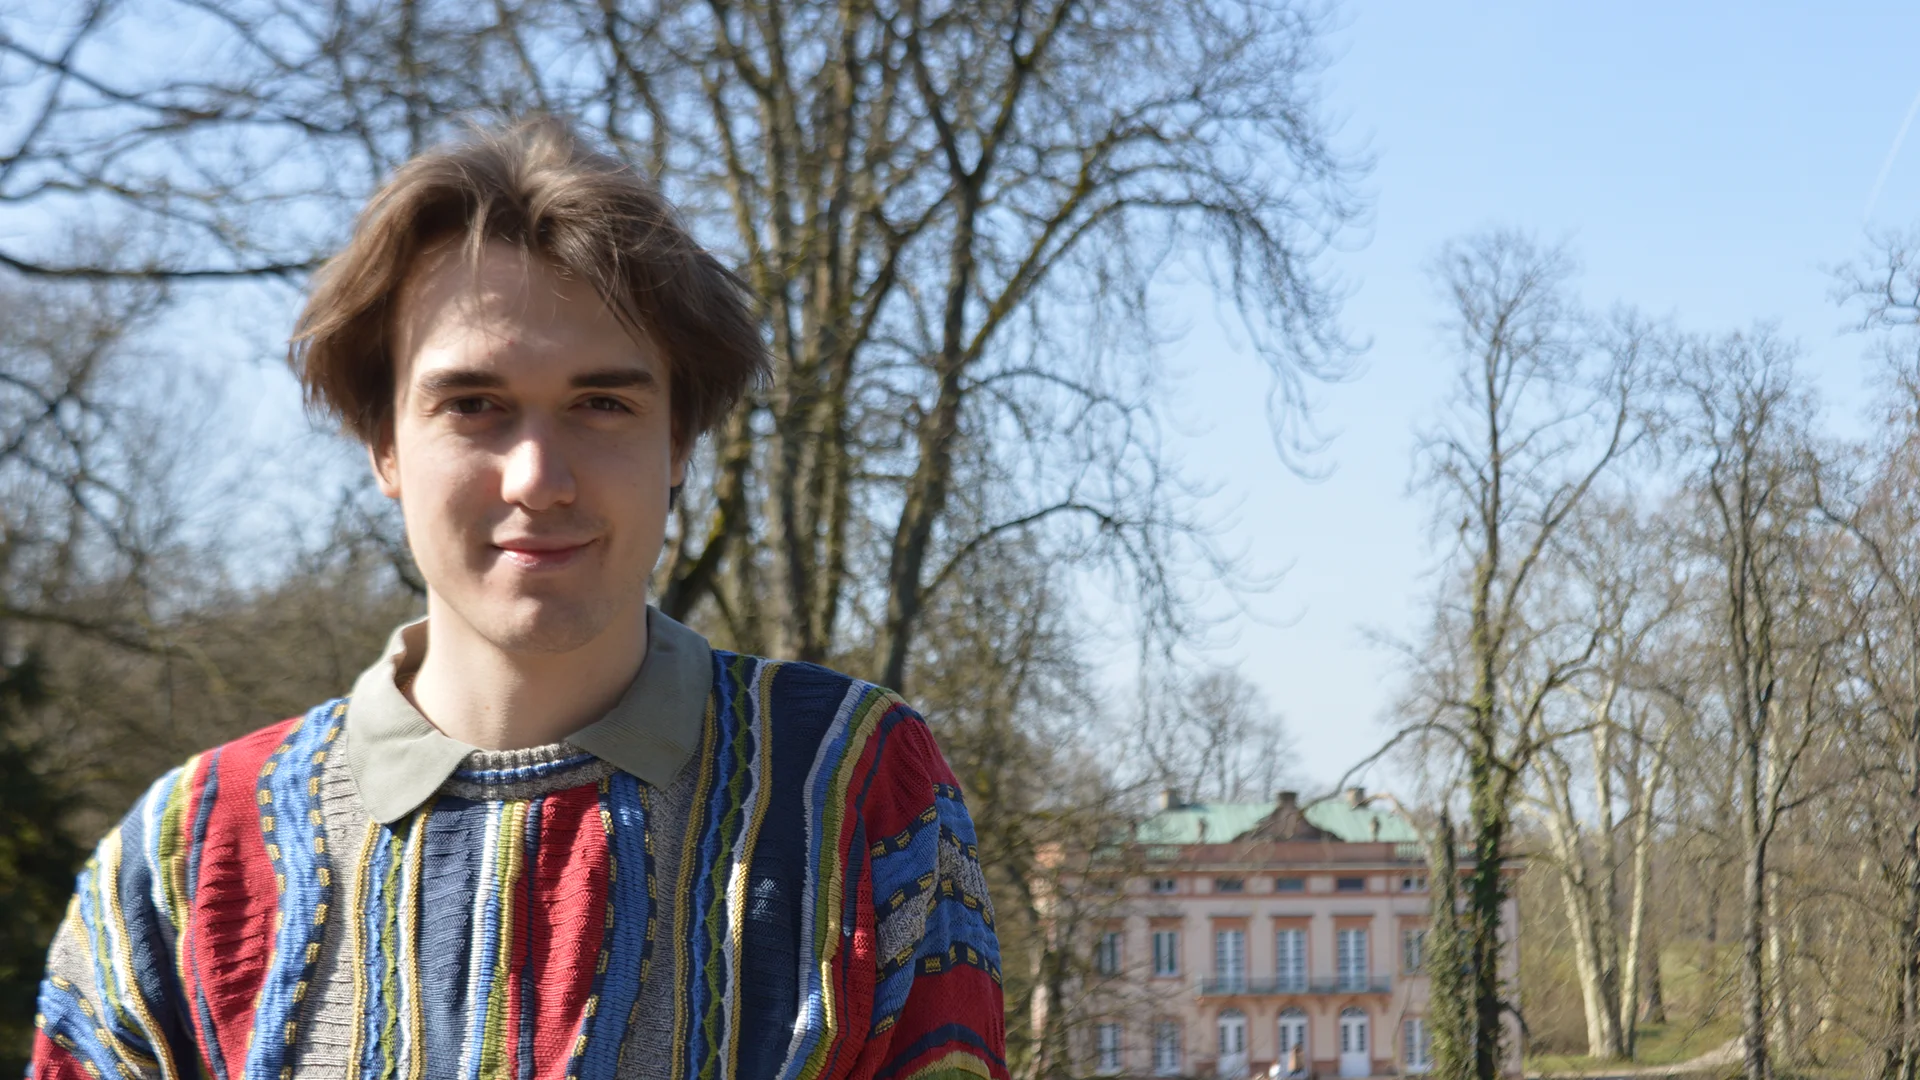
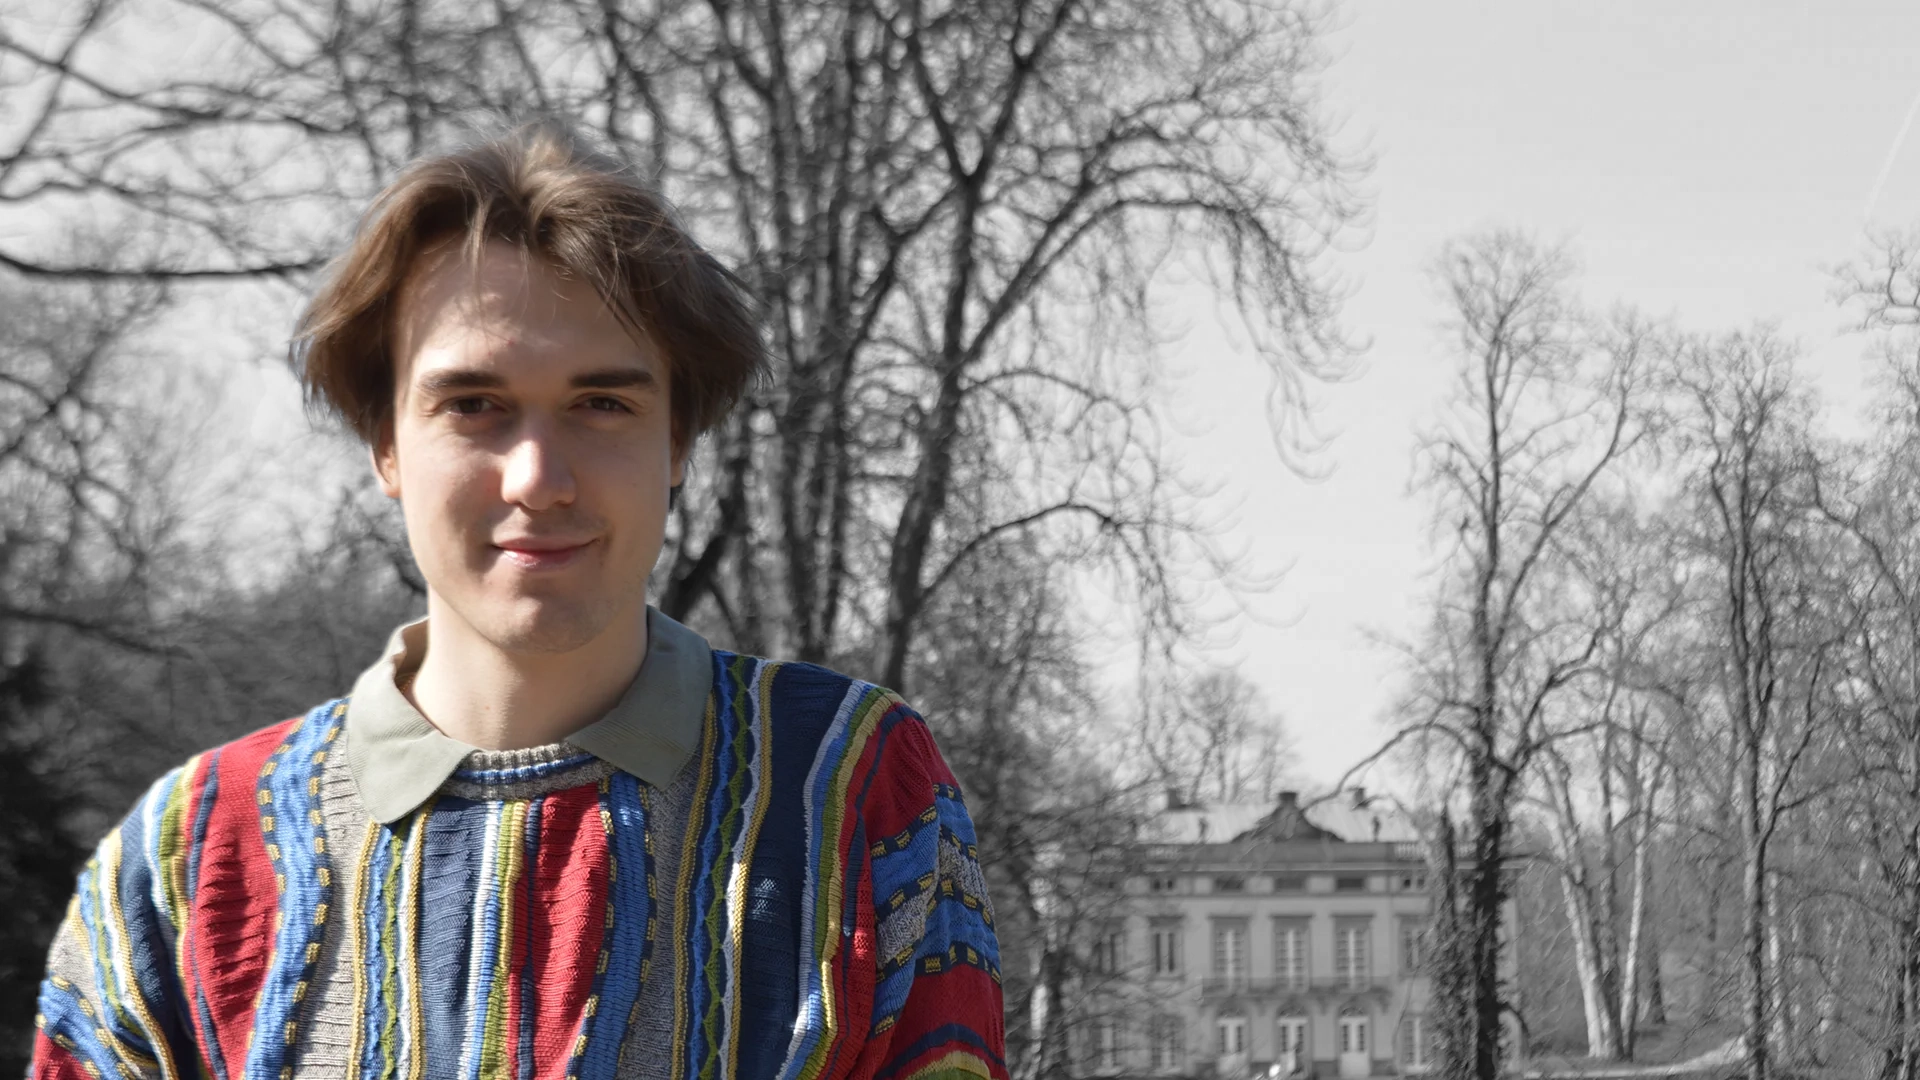
kurze Beschreibung

diff --git a/app/page.tsx b/app/page.tsx
@@ -78,7 +78,7 @@ export default function HomePage() {
         {/* Right image */}
         <div style={{ overflow: 'hidden', minHeight: '400px' }} className="hero-image-col">
           <ImagePlaceholder
-            src="/images/project-01.webp"
+            src="/images/project-01-preview.webp"
             alt="Hero image"
             height="100%"
             label="Hero Image"
